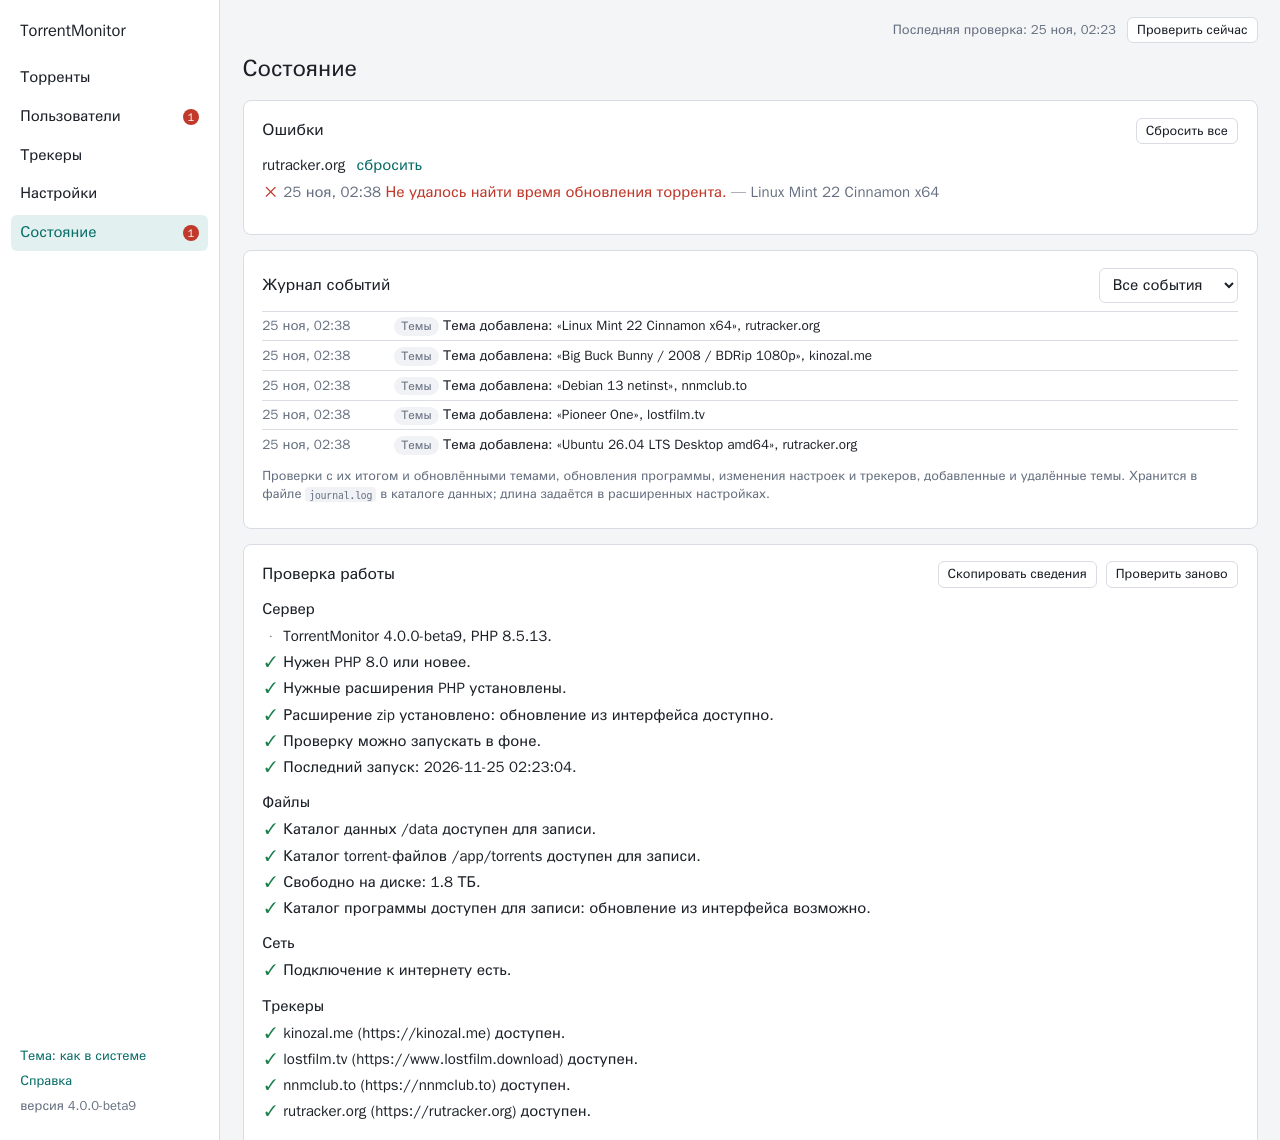
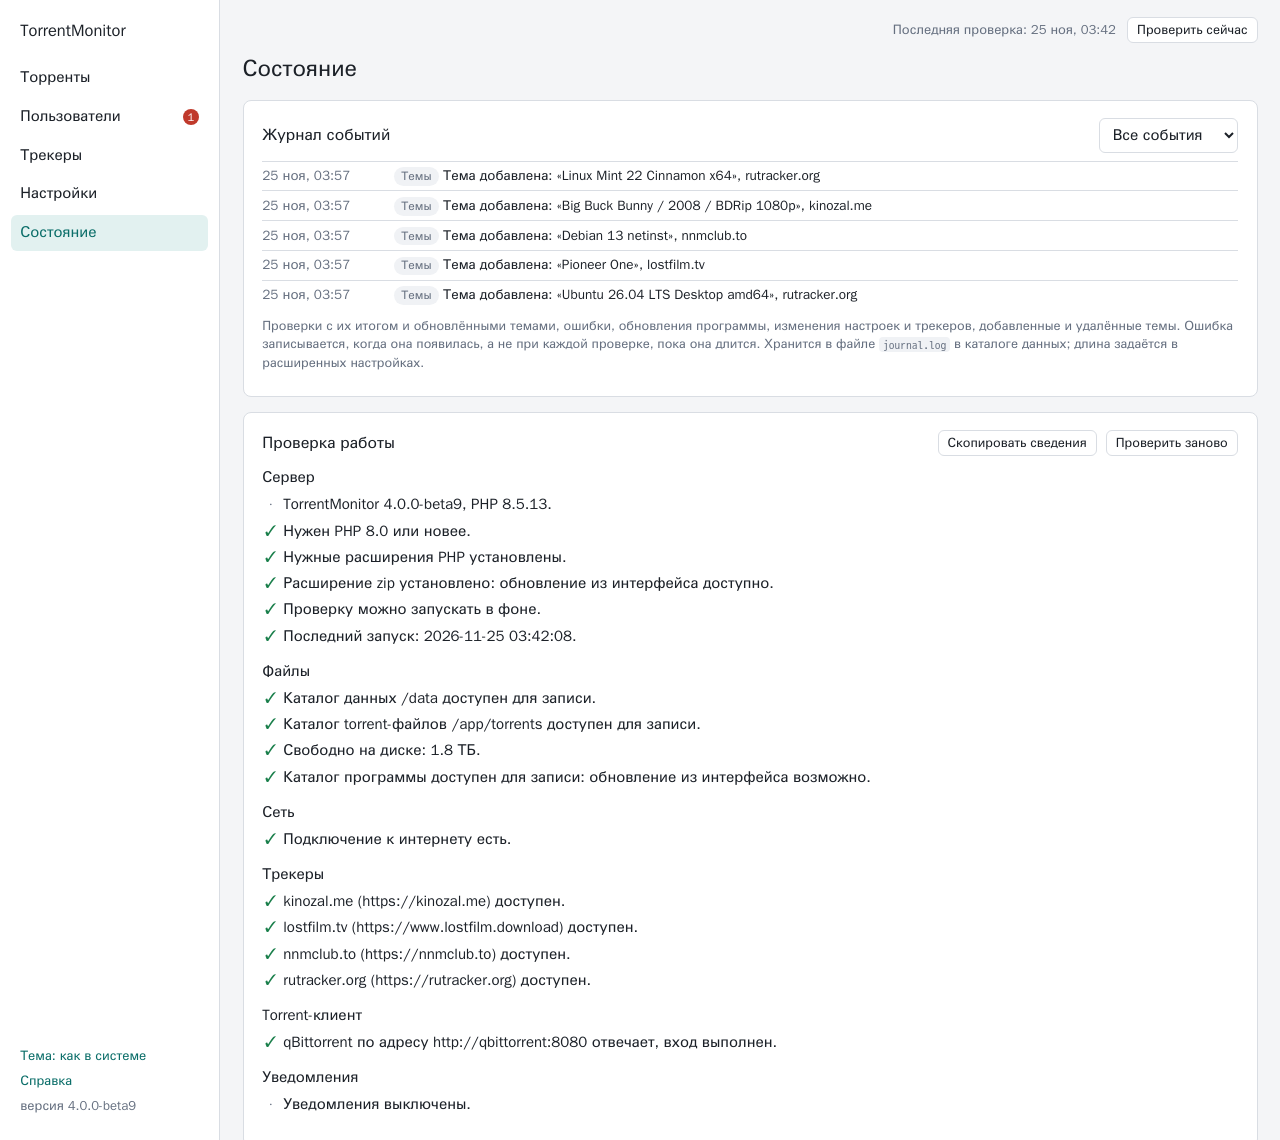
Errors go to the journal of events; the errors card of the status page is removed

diff --git a/src/Web/page.html b/src/Web/page.html
@@ -530,24 +530,6 @@
 
     <div class="card">
         <div class="card__head">
-            <h2>Ошибки</h2><span class="spacer"></span>
-            <button class="btn btn--small" x-show="warnings.length" @click="act('warnings.clear', {})">Сбросить все</button>
-        </div>
-        <p class="muted" x-show="!warnings.length">Ошибок нет.</p>
-        <template x-for="g in warningGroups" :key="g.source">
-            <div class="group">
-                <div class="group__title"><b x-text="g.source"></b>
-                    <button class="link" @click="act('warnings.clear', { source: g.source })">сбросить</button></div>
-                <template x-for="w in g.items" :key="w.id">
-                    <div class="line line--bad"><span class="muted" x-text="local(w.timeUtc, w.time)"></span> <span x-text="w.text"></span>
-                        <span class="muted" x-show="warningTopic(w)" x-text="'— ' + warningTopic(w)"></span></div>
-                </template>
-            </div>
-        </template>
-    </div>
-
-    <div class="card">
-        <div class="card__head">
             <h2>Журнал событий</h2><span class="spacer"></span>
             <span class="running" x-show="status.running">идёт проверка…</span>
             <select x-model="journalKind" title="Какие события показывать" x-show="journal.length">
@@ -559,11 +541,11 @@
         <div class="journal" x-show="journal.length">
             <template x-for="(e, i) in shownJournal" :key="i">
                 <div class="journal__line"><span class="muted journal__time" x-text="local(e.timeUtc, e.time)"></span>
-                    <span class="tag" x-text="journalTitle(e.kind)"></span> <span x-text="e.text"></span></div>
+                    <span class="tag" :class="e.kind == 'error' ? 'tag--bad' : ''" x-text="journalTitle(e.kind)"></span> <span x-text="e.text"></span></div>
             </template>
         </div>
-        <p class="muted small" x-show="journal.length">Проверки с их итогом и обновлёнными темами, обновления программы, изменения настроек
-            и трекеров, добавленные и удалённые темы. Хранится в файле <code>journal.log</code> в каталоге данных; длина задаётся
+        <p class="muted small" x-show="journal.length">Проверки с их итогом и обновлёнными темами, ошибки, обновления программы, изменения настроек
+            и трекеров, добавленные и удалённые темы. Ошибка записывается, когда она появилась, а не при каждой проверке, пока она длится. Хранится в файле <code>journal.log</code> в каталоге данных; длина задаётся
             в расширенных настройках.</p>
         <details class="runlog" x-show="runLog" :open="status.running || runLogOpen" @toggle="runLogOpen = $el.open">
             <summary>Подробный журнал последней проверки</summary>

diff --git a/public/assets/app.js b/public/assets/app.js
@@ -163,7 +163,7 @@ document.addEventListener('alpine:init', () => {
             }
         },
         badge(id) {
-            if (id === 'status') return this.warnings.length + (this.status.update ? 1 : 0);
+            if (id === 'status') return this.status.update ? 1 : 0;
             if (id === 'users') return this.users.reduce((n, u) => n + u.found.length, 0);
             if (id === 'trackers') return this.trackers.filter(t => t.needsAccount && !t.ready && this.topics.some(x => x.tracker === t.name)).length;
             return 0;
@@ -415,7 +415,7 @@ document.addEventListener('alpine:init', () => {
         },
         // ---- journal of events
         journalKinds: [
-            { id: 'run', title: 'Проверки' }, { id: 'update', title: 'Обновления' }, { id: 'settings', title: 'Настройки' },
+            { id: 'run', title: 'Проверки' }, { id: 'error', title: 'Ошибки' }, { id: 'update', title: 'Обновления' }, { id: 'settings', title: 'Настройки' },
             { id: 'tracker', title: 'Трекеры' }, { id: 'topic', title: 'Темы' }, { id: 'access', title: 'Вход' },
             { id: 'service', title: 'Подключения' }, { id: 'data', title: 'Данные' },
         ],
@@ -436,15 +436,6 @@ document.addEventListener('alpine:init', () => {
         async checkHealth() {
             const data = await this.call('health', {}, { silent: true });
             if (data) this.health = data.groups;
-        },
-        get warningGroups() {
-            const groups = {};
-            for (const w of this.warnings) (groups[w.source] = groups[w.source] || []).push(w);
-            return Object.keys(groups).sort().map(source => ({ source, items: groups[source] }));
-        },
-        warningTopic(w) {
-            const topic = this.topics.find(t => t.id === w.topic);
-            return topic ? topic.name : '';
         },
         async installUpdate() {
             if (!confirm('Установить версию ' + this.status.update.version + '?')) return;

diff --git a/src/Engine/Problems.php b/src/Engine/Problems.php
@@ -6,12 +6,61 @@ use TorrentMonitor\Data\Warnings;
 use TorrentMonitor\Notify\Notifications;
 use TorrentMonitor\Tracker\Registry;
 
-// Recording runtime errors: to the error list, to the topic and (first error of a source) to a notification.
+// Recording runtime errors: to the journal of events, to the error list (it marks topics and
+// trackers in the interface and is what the API returns), to the topic and (first error of
+// a source) to a notification.
 final class Problems
 {
     // $source - tracker, torrent client, api or system; $topic - the topic the error relates to
+    /** @var array<string,bool>|null errors that were there before the check run began (see remember()) */
+    private static ?array $known = NULL;
+
+    // A check run reports an error that lasts again every time. Called when a run begins: the errors
+    // of the list as it is then are not written to the journal once more, only the new ones are.
+    public static function remember(): void
+    {
+        self::$known = array();
+        foreach (Warnings::all() as $w)
+            self::$known[self::key((string)$w['source'], (string)$w['code'], $w['topicId'])] = TRUE;
+    }
+
+    private static function key(string $source, string $code, $topicId): string
+    {
+        return $source.'|'.$code.'|'.($topicId === NULL ? '' : (int)$topicId);
+    }
+
+    // Writes errors to the journal, one line per source and kind of error: each array(source, code, topic or NULL)
+    private static function journal(array $items): void
+    {
+        $groups = array();
+        foreach ($items as $item)
+        {
+            $key = self::key($item[0], $item[1], $item[2] === NULL ? NULL : $item[2]['id']);
+            if (self::$known !== NULL)
+            {
+                if (isset(self::$known[$key]))
+                    continue;
+                self::$known[$key] = TRUE;
+            }
+            $group = $item[0].'|'.$item[1];
+            if ( ! isset($groups[$group]))
+                $groups[$group] = array($item[0], $item[1], array());
+            if ($item[2] !== NULL)
+                $groups[$group][2][] = $item[2]['name'] !== '' ? '«'.$item[2]['name'].'»' : 'тема '.$item[2]['topicId'];
+        }
+        foreach ($groups as $g)
+        {
+            $names = $g[2];
+            $more = count($names) - 3;
+            $about = empty($names) ? '' : (count($names) == 1 ? ' Тема '.$names[0].'.'
+                : ' Тем: '.count($names).' — '.implode(', ', array_slice($names, 0, 3)).($more > 0 ? ' и ещё '.$more : '').'.');
+            \TorrentMonitor\Data\Journal::add('error', $g[0].': '.\TorrentMonitor\Messages::text($g[1]).$about);
+        }
+    }
+
     public static function report(string $source, string $code, ?array $topic = NULL): void
     {
+        self::journal(array(array($source, $code, $topic)));
         $first = Warnings::add($source, $code, $topic === NULL ? NULL : $topic['id']);
         if ($topic !== NULL)
             Topics::update($topic['id'], array('error' => TRUE));
@@ -27,6 +76,7 @@ final class Problems
     // The topics are not marked here: the caller saves that mark together with its other changes.
     public static function reportTopics(array $items): void
     {
+        self::journal($items);
         $rows = array();
         foreach ($items as $item)
             $rows[] = array($item[0], $item[1], $item[2]['id']);

diff --git a/src/Data/Journal.php b/src/Data/Journal.php
@@ -5,14 +5,15 @@ use TorrentMonitor\Storage\Files;
 
 // The journal of events (journal.log in the data directory): one line per event, the newest last.
 //   [2026-11-24 12:00:00] run: Проверка (по расписанию), 20 с: ...
-// Kinds: run - a check run and its result; update - a version installed or not; settings - settings
+// Kinds: run - a check run and its result; error - something went wrong (a tracker, the client,
+// the API, the system), written when it begins, not at every run it lasts; update - a version installed or not; settings - settings
 // changed; tracker - a tracker's account or address changed; topic - a topic added, removed or
 // replaced; access - sign-in and keys; service - the torrent client or the Cloudflare solver seen;
 // data - data converted. Nothing secret is written: passwords and keys are only said to have changed.
 // The file keeps as many lines as the journalSize setting says (0 - no journal at all).
 final class Journal
 {
-    const KINDS = array('run', 'update', 'settings', 'tracker', 'topic', 'access', 'service', 'data');
+    const KINDS = array('run', 'error', 'update', 'settings', 'tracker', 'topic', 'access', 'service', 'data');
 
     //who makes the changes of this request, as the journal names it: «интерфейс», «API», «Sonarr»
     public static string $by = '';

diff --git a/tests/Integration/LoggingTest.php b/tests/Integration/LoggingTest.php
@@ -86,6 +86,16 @@ final class LoggingTest extends IntegrationTestCase
         $run = AppState::journal('run')[0];
         $this->assertStringContainsString('с ошибками 1.', $run);
         $this->assertStringContainsString('Ошибки: rutracker.org — ', $run);
+
+        // the error itself is a line of the journal, written when it began and not at every run it lasts
+        $errors = AppState::journal('error');
+        $this->assertCount(1, $errors);
+        $this->assertMatchesRegularExpression('/^rutracker\.org: .+\. Тема тема 805\.$/u', $errors[0]);
+        Env::runEngine();
+        $this->assertCount(1, AppState::journal('error'), 'an error that lasts is not repeated');
+        $this->assertCount(2, AppState::journal('run'));
+        // the list behind the marks of topics and trackers still holds it
+        $this->assertCount(1, Env::ui('overview')['json']['warnings']);
     }
 
     public function testRunsStartedFromTheInterfaceAndTheApiSaySo()

diff --git a/src/Engine/Runner.php b/src/Engine/Runner.php
@@ -113,6 +113,8 @@ final class Runner
             Files::state()->update(function (&$data) { unset($data['news']); });
 
         $started = microtime(TRUE);
+        //errors that only last are not journalled again by this run
+        Problems::remember();
         if ($this->debug)
         {
             $log = @fopen(self::logFile(), 'w');

diff --git a/wiki/Troubleshooting.md b/wiki/Troubleshooting.md
@@ -1,7 +1,7 @@
 # Решение проблем
 
 Частые проблемы и способы их устранения. Первым делом загляните в раздел
-**Состояние** веб-интерфейса: блоки «Ошибки», «Журнал событий»
+**Состояние** веб-интерфейса: блоки «Журнал событий» (в нём же ошибки)
 и «Проверка работы» прямо указывают на источник большинства проблем.
 
 ---
@@ -154,7 +154,7 @@
 |---|---|---|
 | Журнал событий | «Состояние → Журнал событий»; файл `journal.log` в каталоге данных | последние 1000 событий (настраивается) |
 | Подробный журнал проверки | «Состояние → Журнал событий → Подробный журнал последней проверки»; файл `engine.log` в каталоге данных | только последний запуск, и только пока включён |
-| Ошибки | «Состояние → Ошибки» | пока не сброшены; ошибки трекера убираются, когда следующая его проверка прошла без ошибок |
+| Ошибки | в журнале событий, вид «Ошибки»; кроме того, отмечены у темы в списке и у трекера на странице «Трекеры» | в журнале — как остальные события; отметки — пока ошибка длится |
 | Вывод проверок в Docker | `docker logs torrentmonitor` | сколько хранит Docker — ограничьте размер в настройках журналов контейнера |
 
 Журнал один — **журнал событий**. Каждая проверка записывает в него одну строку: как она

diff --git a/wiki/API.md b/wiki/API.md
@@ -319,7 +319,8 @@ Config::write('php.cli', '/usr/bin/php8.3');
 
 ## GET /api/errors — список ошибок
 
-Те же предупреждения, что показываются в «Состояние → Ошибки» веб-интерфейса.
+Ошибки, которые длятся сейчас: по ним в интерфейсе отмечены темы и трекеры. В журнал событий
+(«Состояние») каждая из них записана один раз — когда появилась.
 
 Параметры (необязательные): `tracker` — фильтр по источнику (полю `source`).
 Набор полей с фильтром и без него одинаковый.
@@ -444,7 +445,7 @@ CURLOPT_POSTFIELDS => json_encode([
 ## Ошибки API в интерфейсе
 
 Проблемы обработки webhook Sonarr (торрент не найден в клиенте, не найдены учётные
-данные трекера и т.п.) записываются в «Состояние → Ошибки» веб-интерфейса с источником `api`.
+данные трекера и т.п.) записываются в журнал событий («Состояние», вид «Ошибки») с источником `api`.
 
 Те же записи доступны через `GET /api/errors` — общим списком, с фильтром по
 источнику (`?tracker=api`) или по конкретной теме.

diff --git a/CHANGELOG.md b/CHANGELOG.md
@@ -36,6 +36,9 @@
 
 - nnmclub.to больше не требует учётной записи: без неё темы проверяются без входа, как их видит
   гость. Учётную запись по-прежнему можно задать — тогда скачанное учитывается в рейтинге (#33)
+- Блок «Ошибки» на странице «Состояние» убран: ошибки записываются в журнал событий (вид
+  «Ошибки», отмечены красным) — когда ошибка появилась, а не при каждой проверке, пока она
+  длится. Отметки ошибок у тем и трекеров остались (#35)
 - Журнал теперь один — журнал событий: блок «Последняя проверка» на странице «Состояние» убран,
   а обычная проверка больше не пишет файл `engine.log` — её итог, обновлённые темы и ошибки
   записаны строкой журнала событий. Отдельный журнал проверки ведётся и показан под журналом

diff --git a/wiki/Installation-LAMP.md b/wiki/Installation-LAMP.md
@@ -194,8 +194,8 @@ sudo -u www-data php /var/www/torrentmonitor/engine.php
 
 Перед опросом трекеров проверяется подключение к интернету
 (`https://www.google.com/generate_204` и `https://ya.ru/`; достаточно любого ответа).
-Если его нет, трекеры не опрашиваются, а в «Состояние → Ошибки» записывается одно
-предупреждение «Нет подключения к интернету» вместо ошибки по каждому трекеру.
+Если его нет, трекеры не опрашиваются, а в журнал событий записывается одна
+ошибка «Нет подключения к интернету» вместо ошибки по каждому трекеру.
 Адрес проверки можно изменить или отключить в `config.php`:
 
 ```php

diff --git a/wiki/Sonarr-Integration.md b/wiki/Sonarr-Integration.md
@@ -188,7 +188,7 @@ Webhook сразу отклоняет запрос в трёх случаях:
 | `422` `В настройках TorrentMonitor не включён torrent-клиент.` | отметьте «Передавать скачанные torrent-файлы в torrent-клиент» в **Настройки → Torrent-клиент** |
 
 На событие Grab TM отвечает до того, как выполнит работу, поэтому остальные проблемы
-в ответе webhook не видны. Они записываются в «Состояние → Ошибки» TM (источник `api`)
+в ответе webhook не видны. Они записываются в журнал событий TM («Состояние», вид «Ошибки», источник `api`)
 и доступны через `GET /api/errors`:
 
 | Код | Сообщение | Причина и решение |
